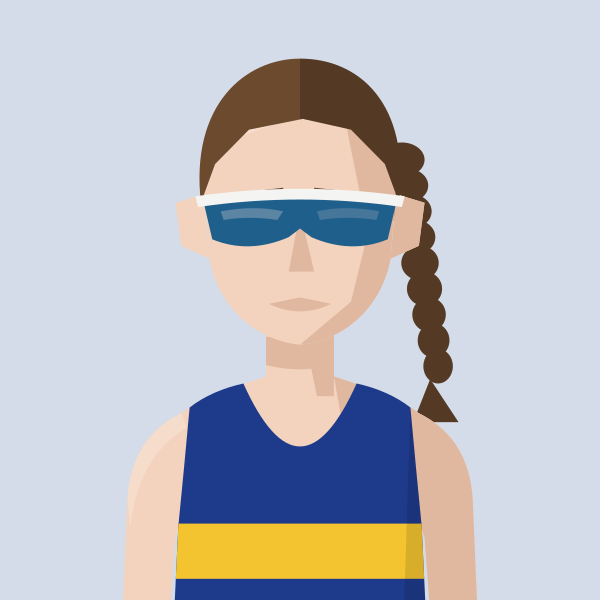
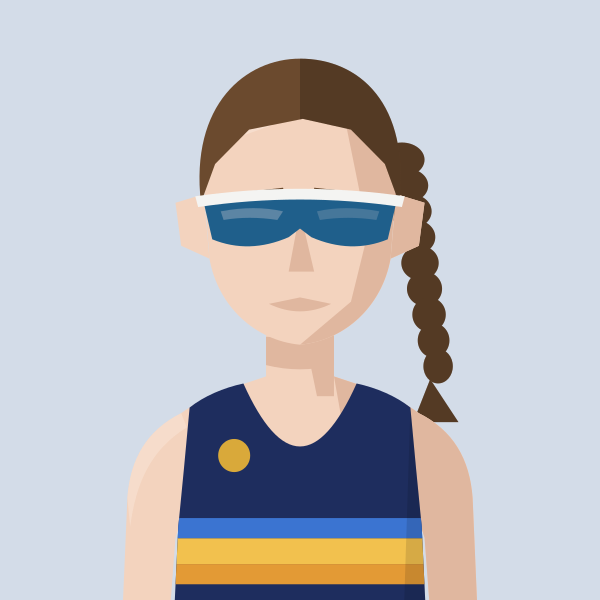
Ranelagh vest redrawn: navy with blue/gold/amber bands and crest
Claude-Session: https://claude.ai/code/session_01MgmDWhFqnSSnP4iBLKXUZC

Changed region(s): [[0.27, 0.63, 0.72, 1.0]]

diff --git a/tools/gen_portraits.py b/tools/gen_portraits.py
@@ -18,7 +18,7 @@ KITS = {
     "KEN": ("#2a4d7a", '<path d="M13 5 L15 5.5 L15 7.5 C15 8.5 14 9 13 9.5 C12 9 11 8.5 11 7.5 L11 5.5 Z" fill="#dc2626"/>', "#D3DCE6"),
     "DUL": ("#dc2626", '<rect x="0" y="7" width="20" height="1.9" fill="#2563eb"/><rect x="0" y="10.1" width="20" height="1.9" fill="#2563eb"/>', "#EDD9D3"),
     "C/C": ("#ffffff", '<rect x="0" y="10" width="20" height="10" fill="#1e3a8a"/><rect x="0" y="9" width="20" height="2" fill="#228b22"/>', "#D6DEE6"),
-    "RAN": ("#1e3a8a", '<rect x="0" y="8" width="20" height="3" fill="#f4c430"/>', "#D3DCE8"),
+    "RAN": ("#1E2D5E", '<circle cx="6.3" cy="4.3" r="0.9" fill="#D9A93A"/><rect x="0" y="7.7" width="20" height="1.1" fill="#3B74D1"/><rect x="0" y="8.8" width="20" height="1.4" fill="#F2C14E"/><rect x="0" y="10.2" width="20" height="1.1" fill="#E39A35"/>', "#D3DCE8"),
     "STR": ("#E9B83C", '<rect x="0" y="8.2" width="20" height="0.9" fill="#1a1a1a"/><rect x="0" y="9.1" width="20" height="2.2" fill="#2E6B3A"/><rect x="0" y="11.3" width="20" height="0.9" fill="#1a1a1a"/><circle cx="14" cy="4.6" r="1.4" fill="#1a1a1a"/><circle cx="14" cy="4.6" r="0.6" fill="#E9B83C"/>', "#F1E6C6"),
     "WOK": ("#ff6600", '<rect x="0" y="8" width="20" height="3" fill="#32CD32"/>', "#F2DFCF"),
     "FUL": ("#ffffff", "".join(f'<rect x="0" y="{y}" width="20" height="3" fill="#1a1a1a"/>' for y in (0, 6, 12, 18)), "#DFE2E6"),
